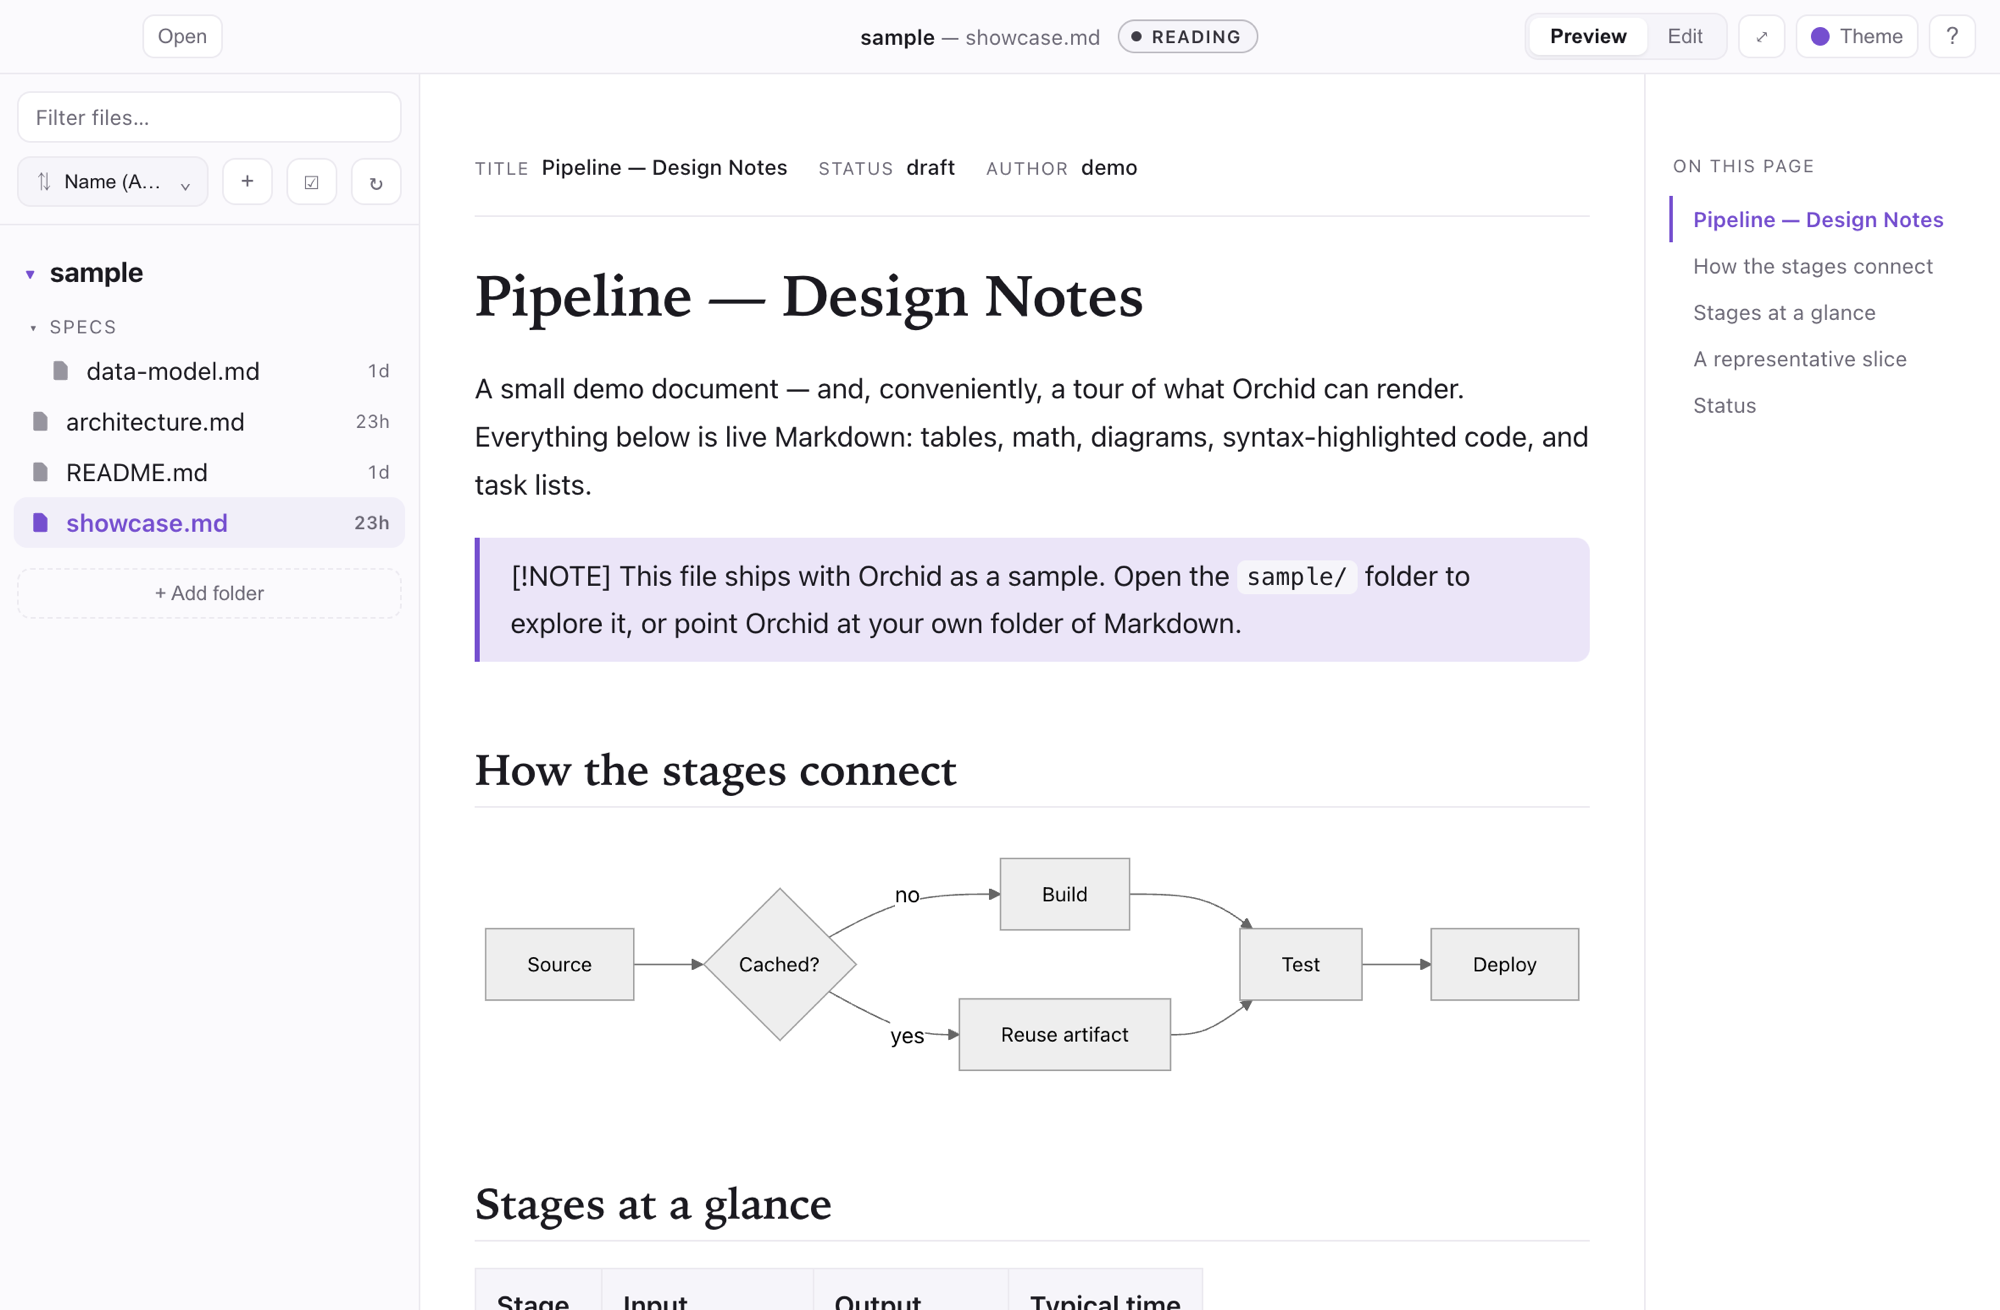
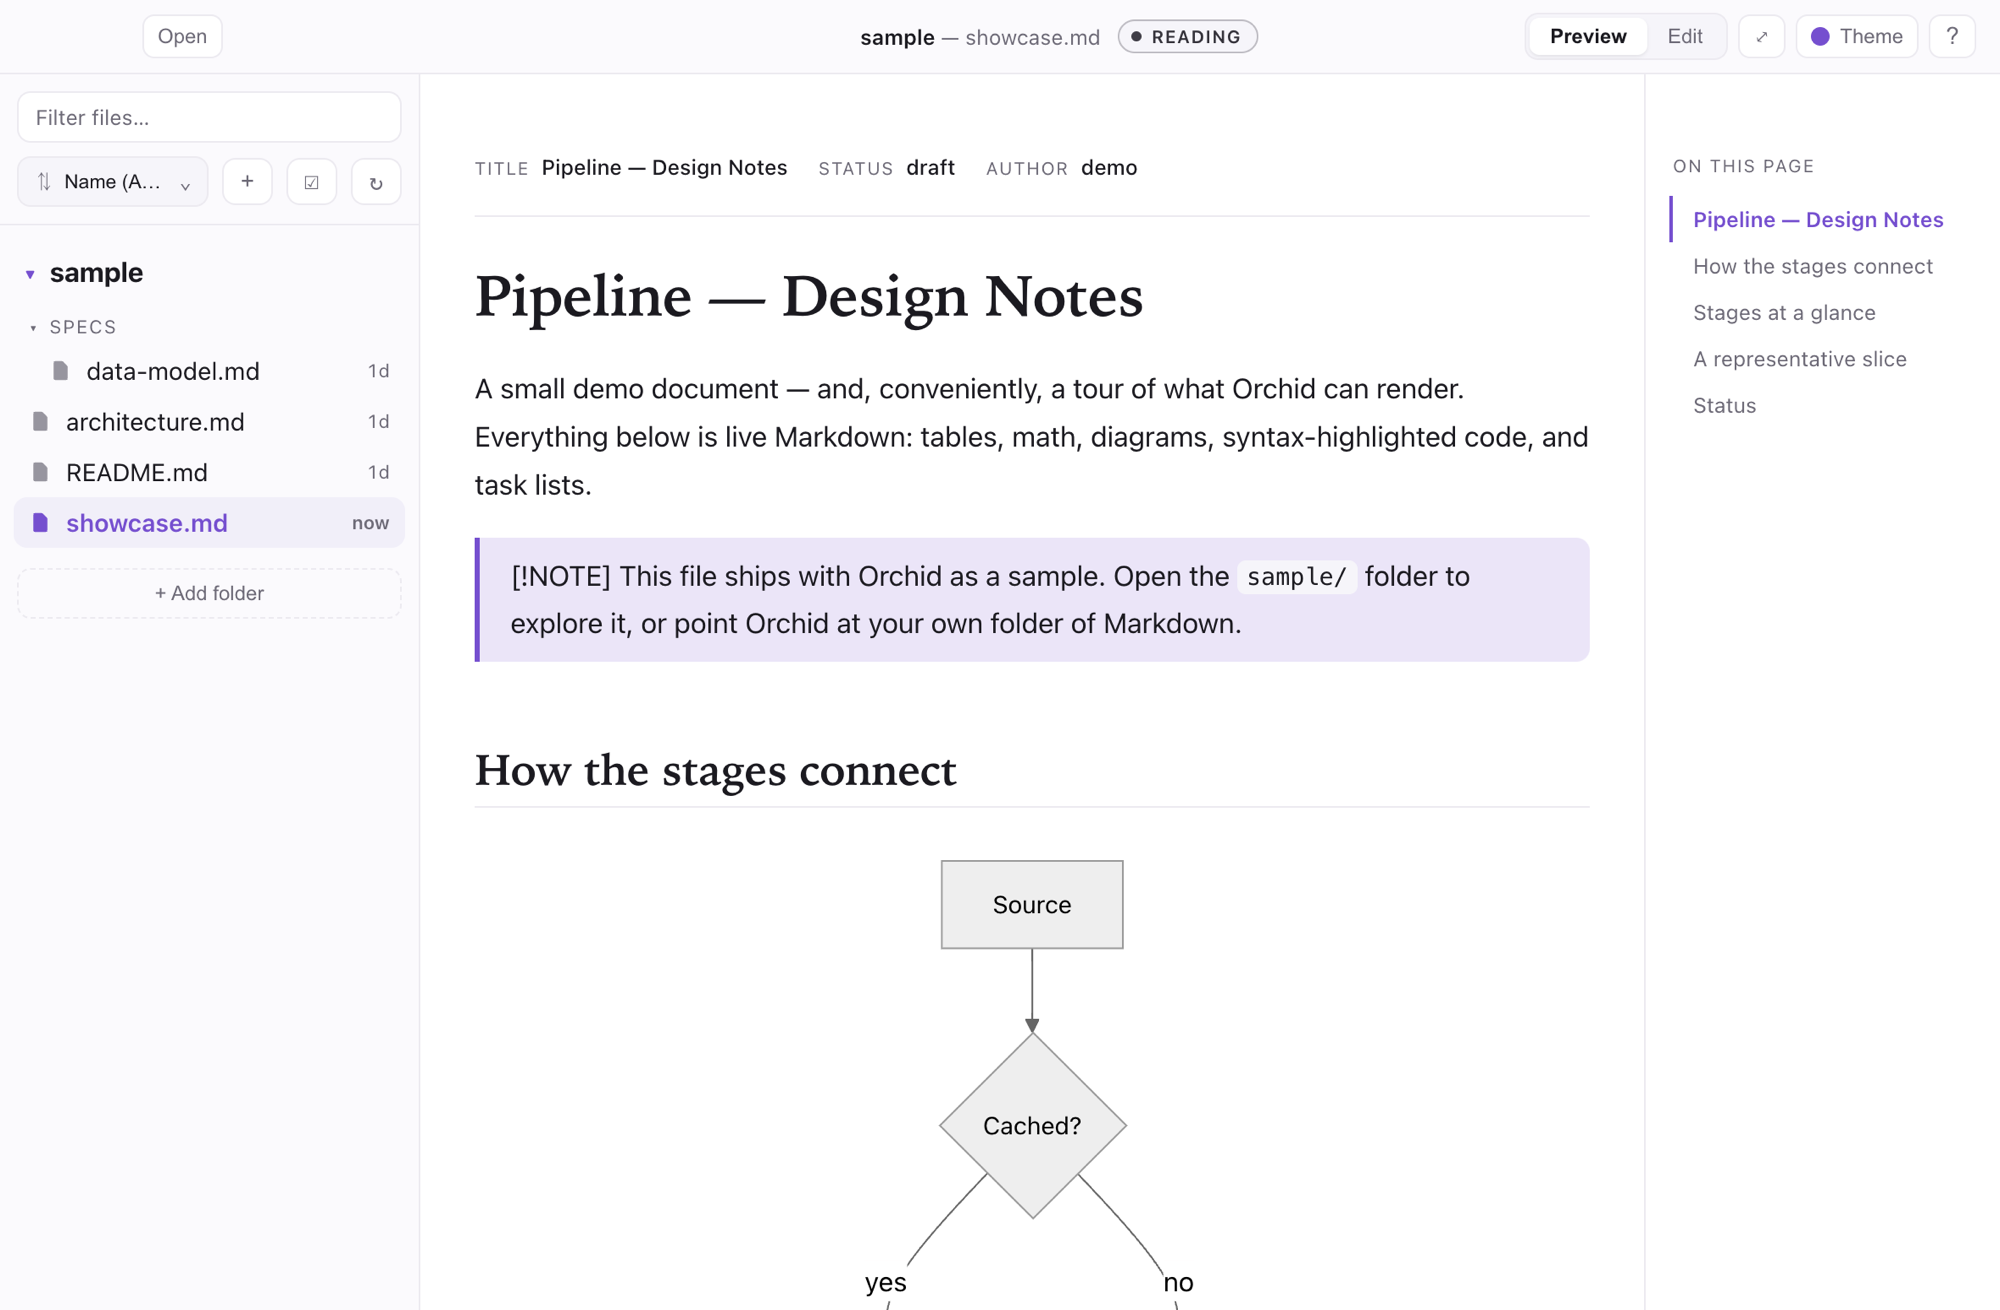
docs: richer demo diagram + stronger screenshots
- Upgrade the sample Mermaid flowchart to a top-down flow with a Test subgraph
  so it photographs well.
- Replace the dark hero with a diagram-focused shot (shows what Orchid renders)
  and refresh the light hero; update the caption.

diff --git a/sample/showcase.md b/sample/showcase.md
@@ -16,13 +16,18 @@ below is live Markdown: tables, math, diagrams, syntax-highlighted code, and tas
 ## How the stages connect
 
 ```mermaid
-flowchart LR
+flowchart TD
   A[Source] --> B{Cached?}
   B -->|yes| C[Reuse artifact]
   B -->|no| D[Build]
-  D --> E[Test]
-  C --> E
-  E --> F[Deploy]
+  C --> T
+  D --> T
+  subgraph T [Test]
+    direction LR
+    U[Unit] --> I[Integration]
+  end
+  T --> P[Deploy]
+  P --> L((Live))
 ```
 
 ## Stages at a glance

diff --git a/README.md b/README.md
@@ -89,8 +89,8 @@ Press Return, then open Orchid normally. You only ever need this once.
 
 Orchid follows your system appearance — **Bloom** (light) and **Dusk** (dark) — or pin either.
 
-<img src="docs/img/hero-dark.png" width="780" alt="The same document in dark mode (Dusk)" />
-<br/><em>Dusk — the same document in dark mode</em>
+<img src="docs/img/hero-dark.png" width="780" alt="A Mermaid diagram rendered in dark mode (Dusk)" />
+<br/><em>Dusk — Mermaid diagrams, math, and code, rendered live</em>
 <br/><br/>
 <img src="docs/img/workspace.png" width="780" alt="Multi-folder workspace with rich preview" />
 <br/><em>Pinned files · multi-folder workspaces · contents rail</em>